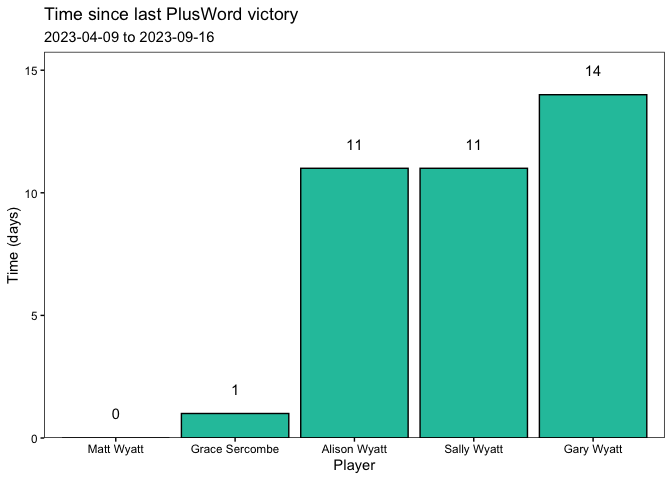
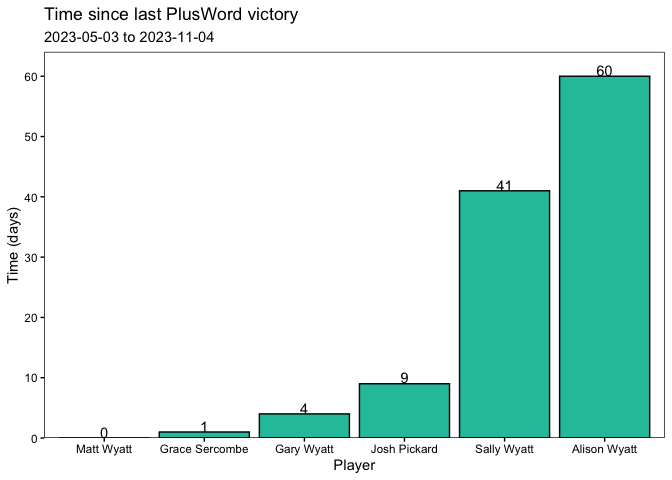
Updated analysis

diff --git a/README.md b/README.md
@@ -3,13 +3,14 @@ PlusWord Analysis
 
 ## Overall Ranking
 
-| Player         |   1 |   2 |   3 |   4 |   5 | Games |
-|:---------------|----:|----:|----:|----:|----:|------:|
-| Matt Wyatt     |  69 |  56 |  19 |  11 |   3 |   158 |
-| Grace Sercombe |  63 |  39 |  27 |  16 |   0 |   145 |
-| Gary Wyatt     |  19 |  42 |  61 |  24 |   9 |   155 |
-| Alison Wyatt   |   9 |  17 |  32 |  64 |  17 |   139 |
-| Sally Wyatt    |   4 |   4 |  18 |  17 |  35 |    78 |
+| Player         |   1 |   2 |   3 |   4 |   5 |   6 | Games |
+|:---------------|----:|----:|----:|----:|----:|----:|------:|
+| Matt Wyatt     |  85 |  63 |  18 |  11 |   4 |   1 |   182 |
+| Grace Sercombe |  70 |  50 |  28 |  16 |   0 |   0 |   164 |
+| Gary Wyatt     |  20 |  35 |  65 |  37 |  18 |   4 |   179 |
+| Alison Wyatt   |   7 |  24 |  42 |  67 |  29 |   4 |   173 |
+| Sally Wyatt    |   5 |   4 |  24 |  27 |  46 |   9 |   115 |
+| Josh Pickard   |   4 |   5 |   4 |   6 |   6 |   7 |    32 |
 
 ![](plusword_analysis_files/figure-commonmark/total_wins-1.png)
 
